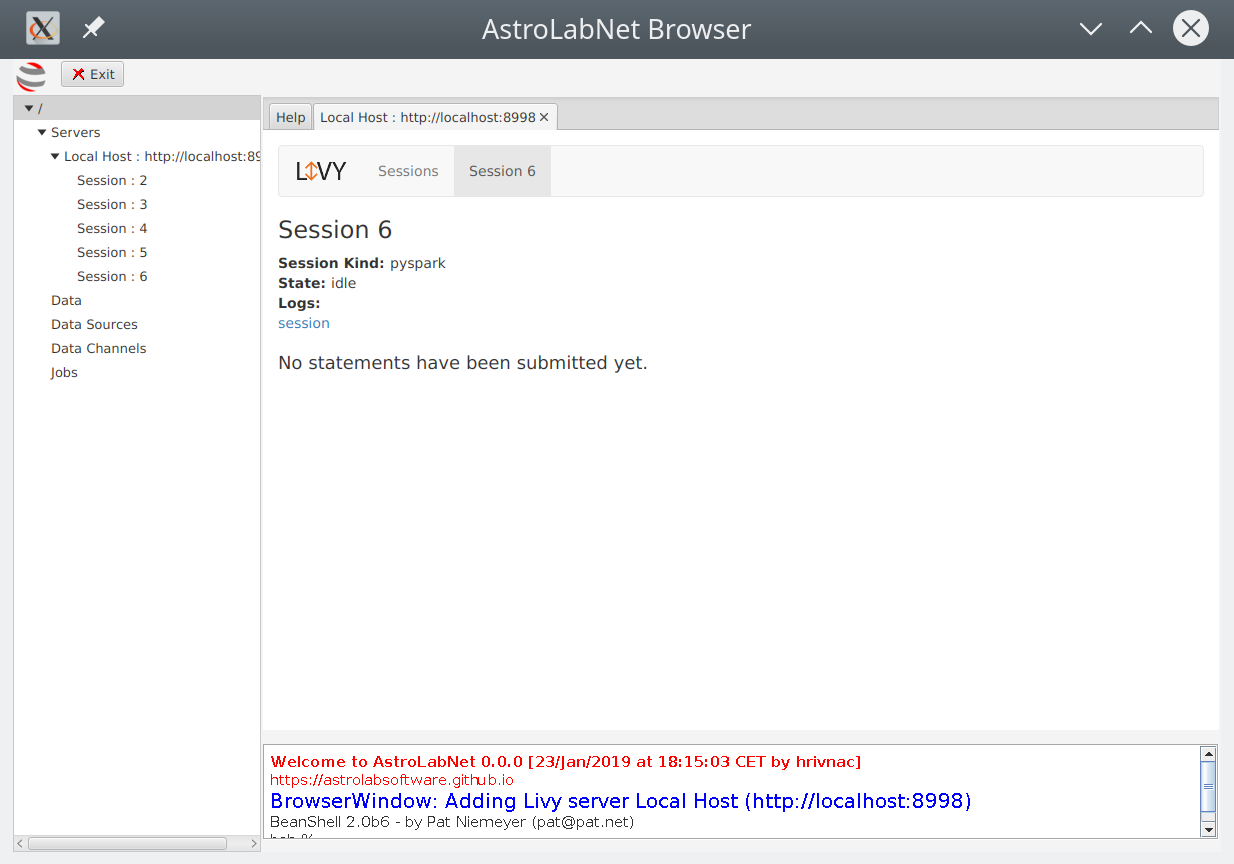
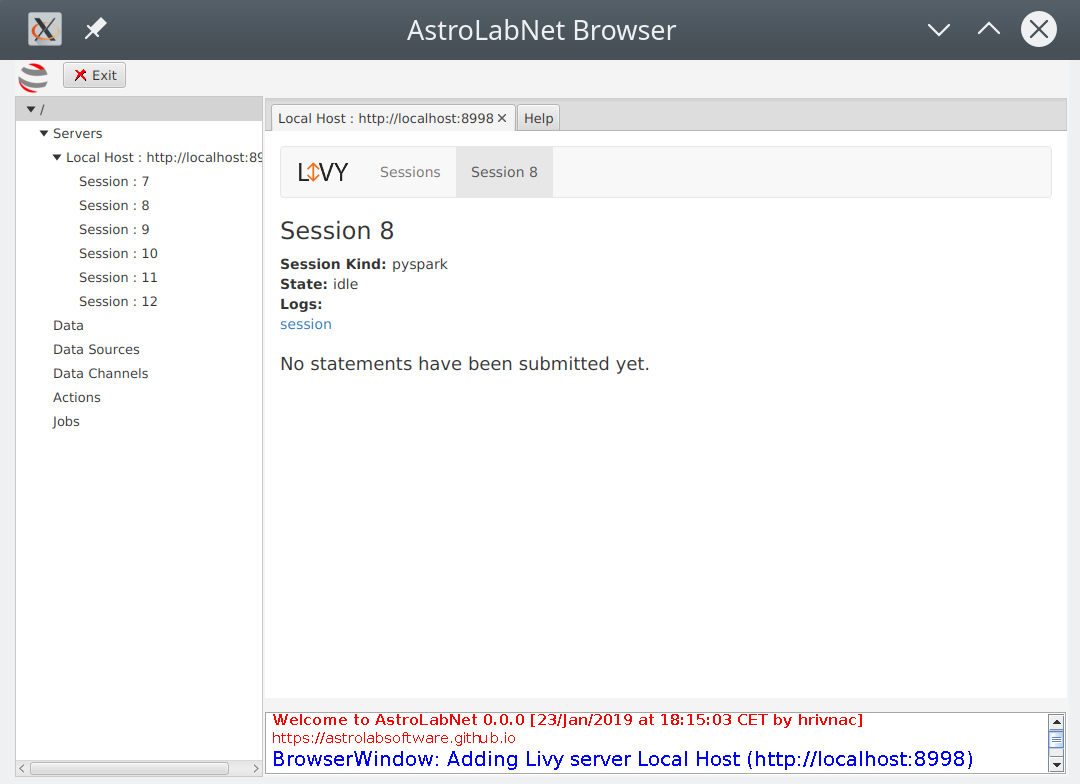
...

diff --git a/src/java/com/astrolabsoftware/AstroLabNet/Browser/BrowserWindow.java b/src/java/com/astrolabsoftware/AstroLabNet/Browser/BrowserWindow.java
@@ -134,6 +134,7 @@ public class BrowserWindow extends Application {
                               _data,
                               _dataSources,
                               _channels,
+                              _actions,
                               _jobs);
     // Help
     Text helpText = new Text("HELP !");
@@ -271,6 +272,7 @@ public class BrowserWindow extends Application {
   private TreeItem<Element> _data        = new TreeItem<>(new Element("Data"));
   private TreeItem<Element> _dataSources = new TreeItem<>(new Element("Data Sources"));
   private TreeItem<Element> _channels    = new TreeItem<>(new Element("Data Channels"));
+  private TreeItem<Element> _actions     = new TreeItem<>(new Element("Actions"));
   private TreeItem<Element> _jobs        = new TreeItem<>(new Element("Jobs"));
   
   private static Console _console;

diff --git a/src/java/com/astrolabsoftware/AstroLabNet/DB/Action.java b/src/java/com/astrolabsoftware/AstroLabNet/DB/Action.java
@@ -3,17 +3,17 @@ package com.astrolabsoftware.AstroLabNet.DB;
 // Log4J
 import org.apache.log4j.Logger;
 
-/** <code>Job</code> represents running <em>Spark</em> job
-  * transfer.
+/** <code>Action</code> represents <em>Spark</em> job or transfer
+  * ready to run.
   * @opt attributes
   * @opt operations
   * @opt types
   * @opt visibility
   * @author <a href="mailto:Julius.Hrivnac@cern.ch">J.Hrivnac</a> */
-public class Job extends Element {
+public class Action extends Element {
   
   /** TBD */
-  public Job(String name) {
+  public Action(String name) {
     super(name);
     }
 
@@ -23,6 +23,6 @@ public class Job extends Element {
     }
   
   /** Logging . */
-  private static Logger log = Logger.getLogger(Job.class);
+  private static Logger log = Logger.getLogger(Action.class);
 
   }
